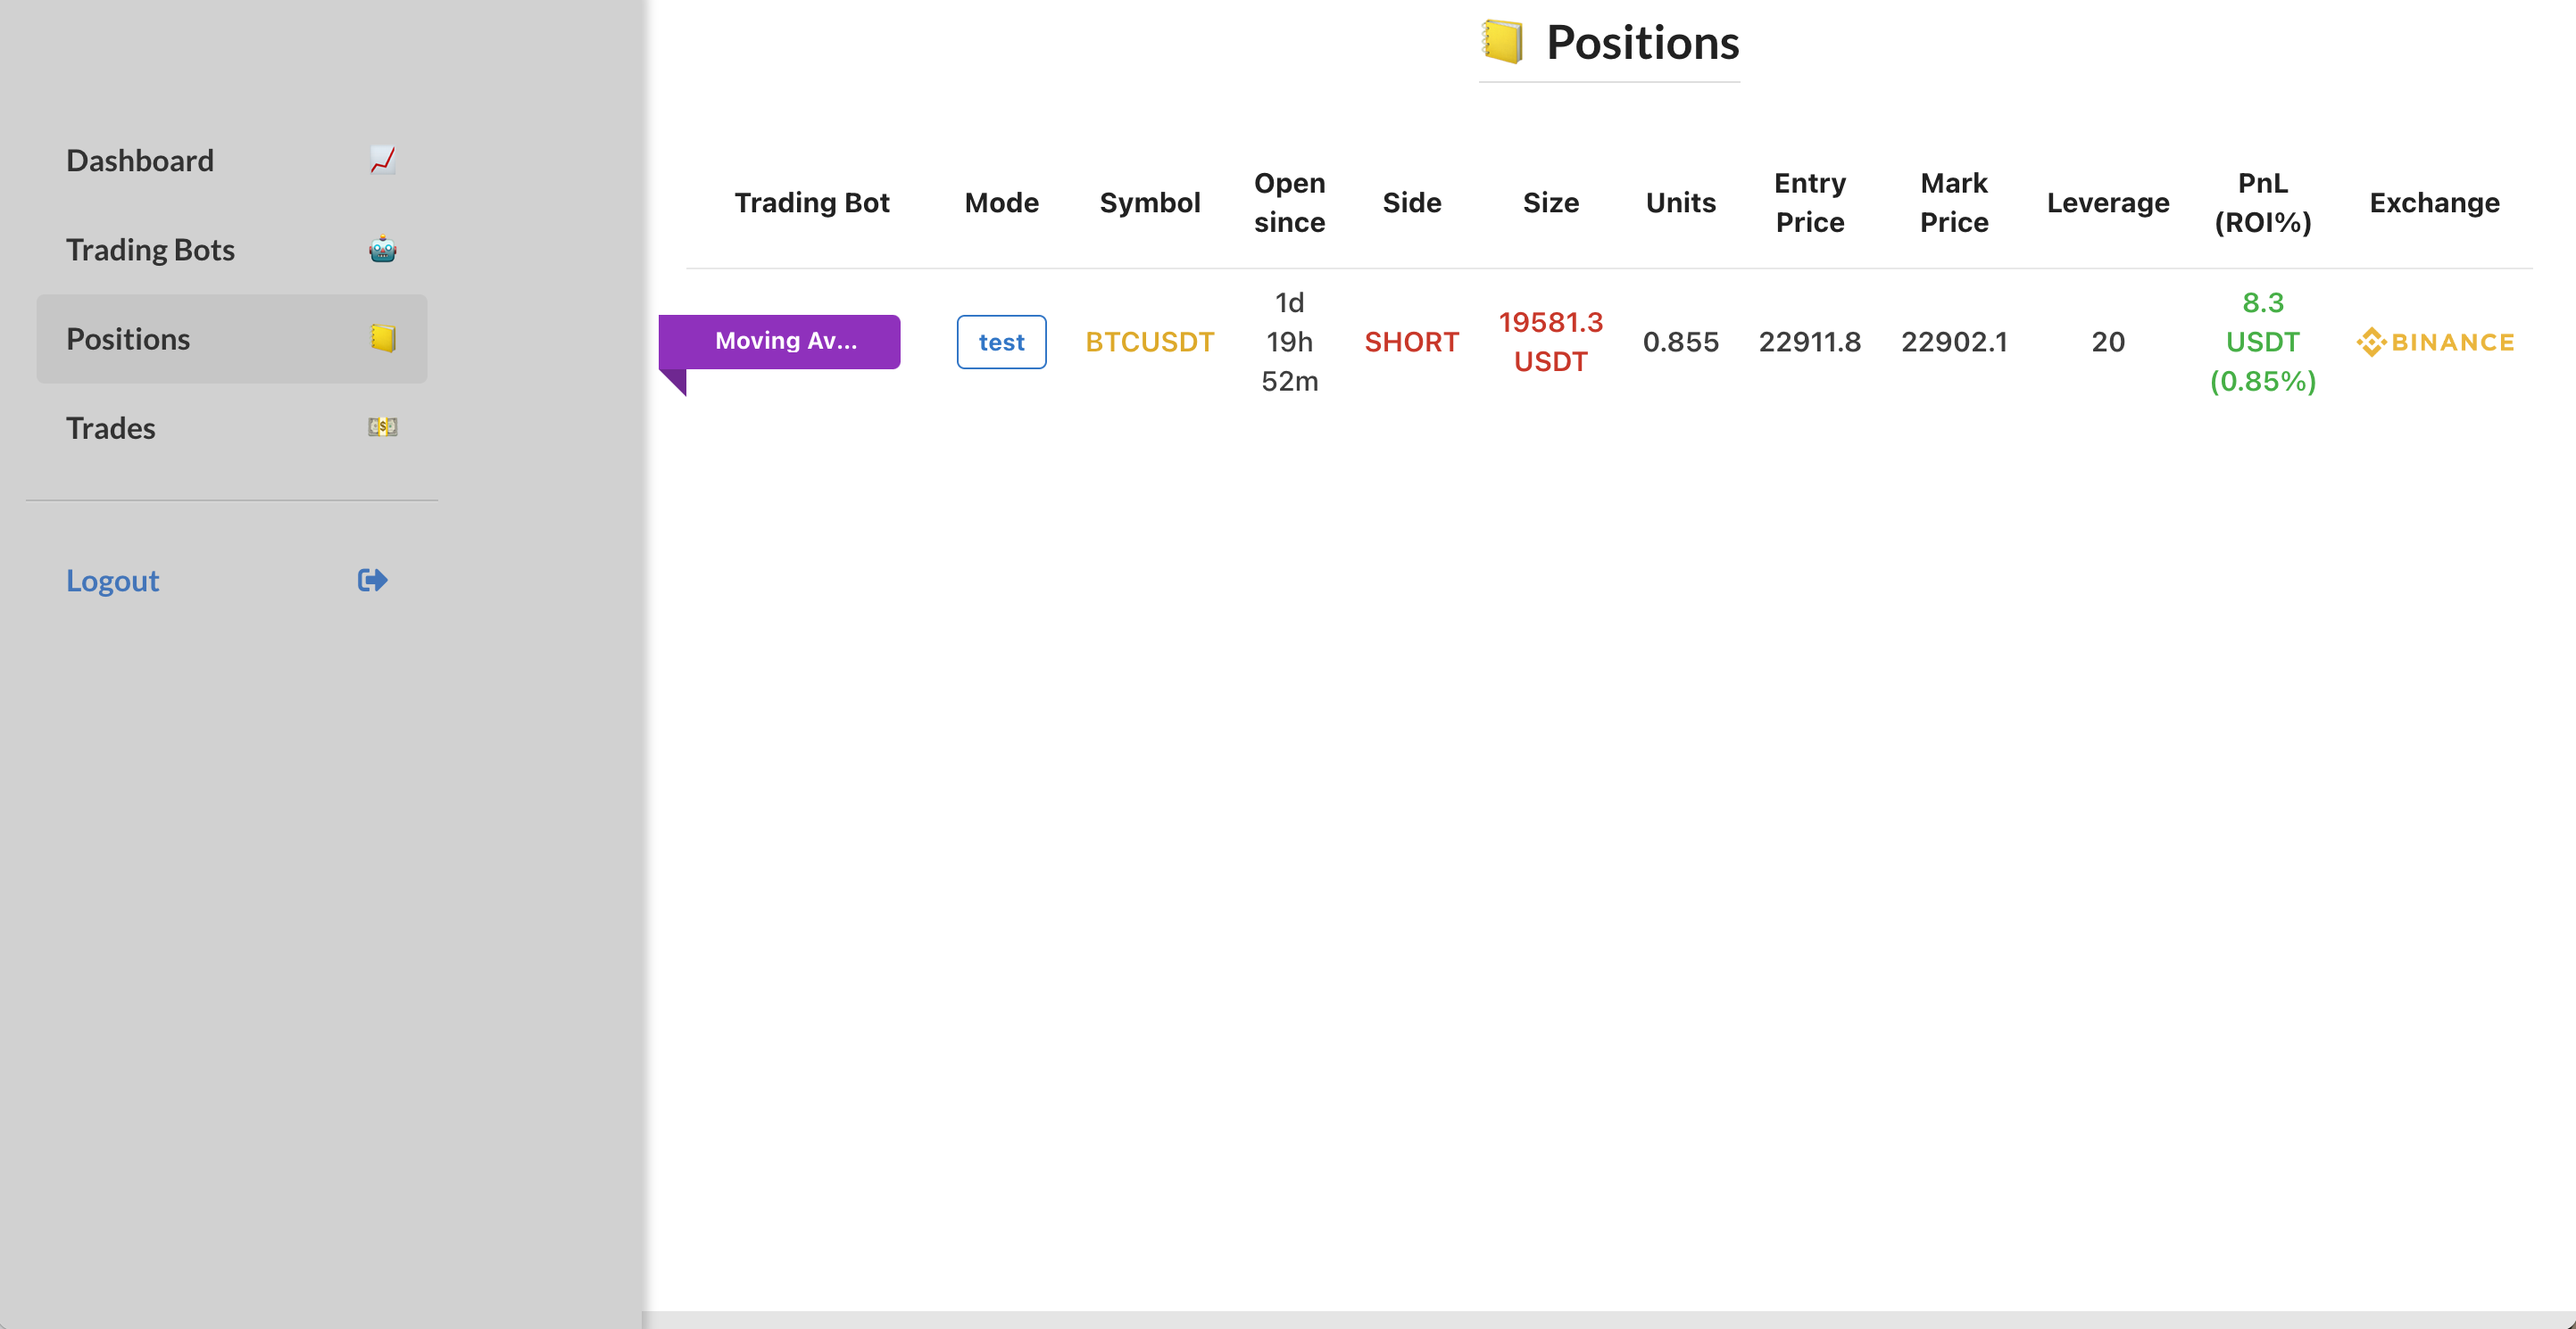
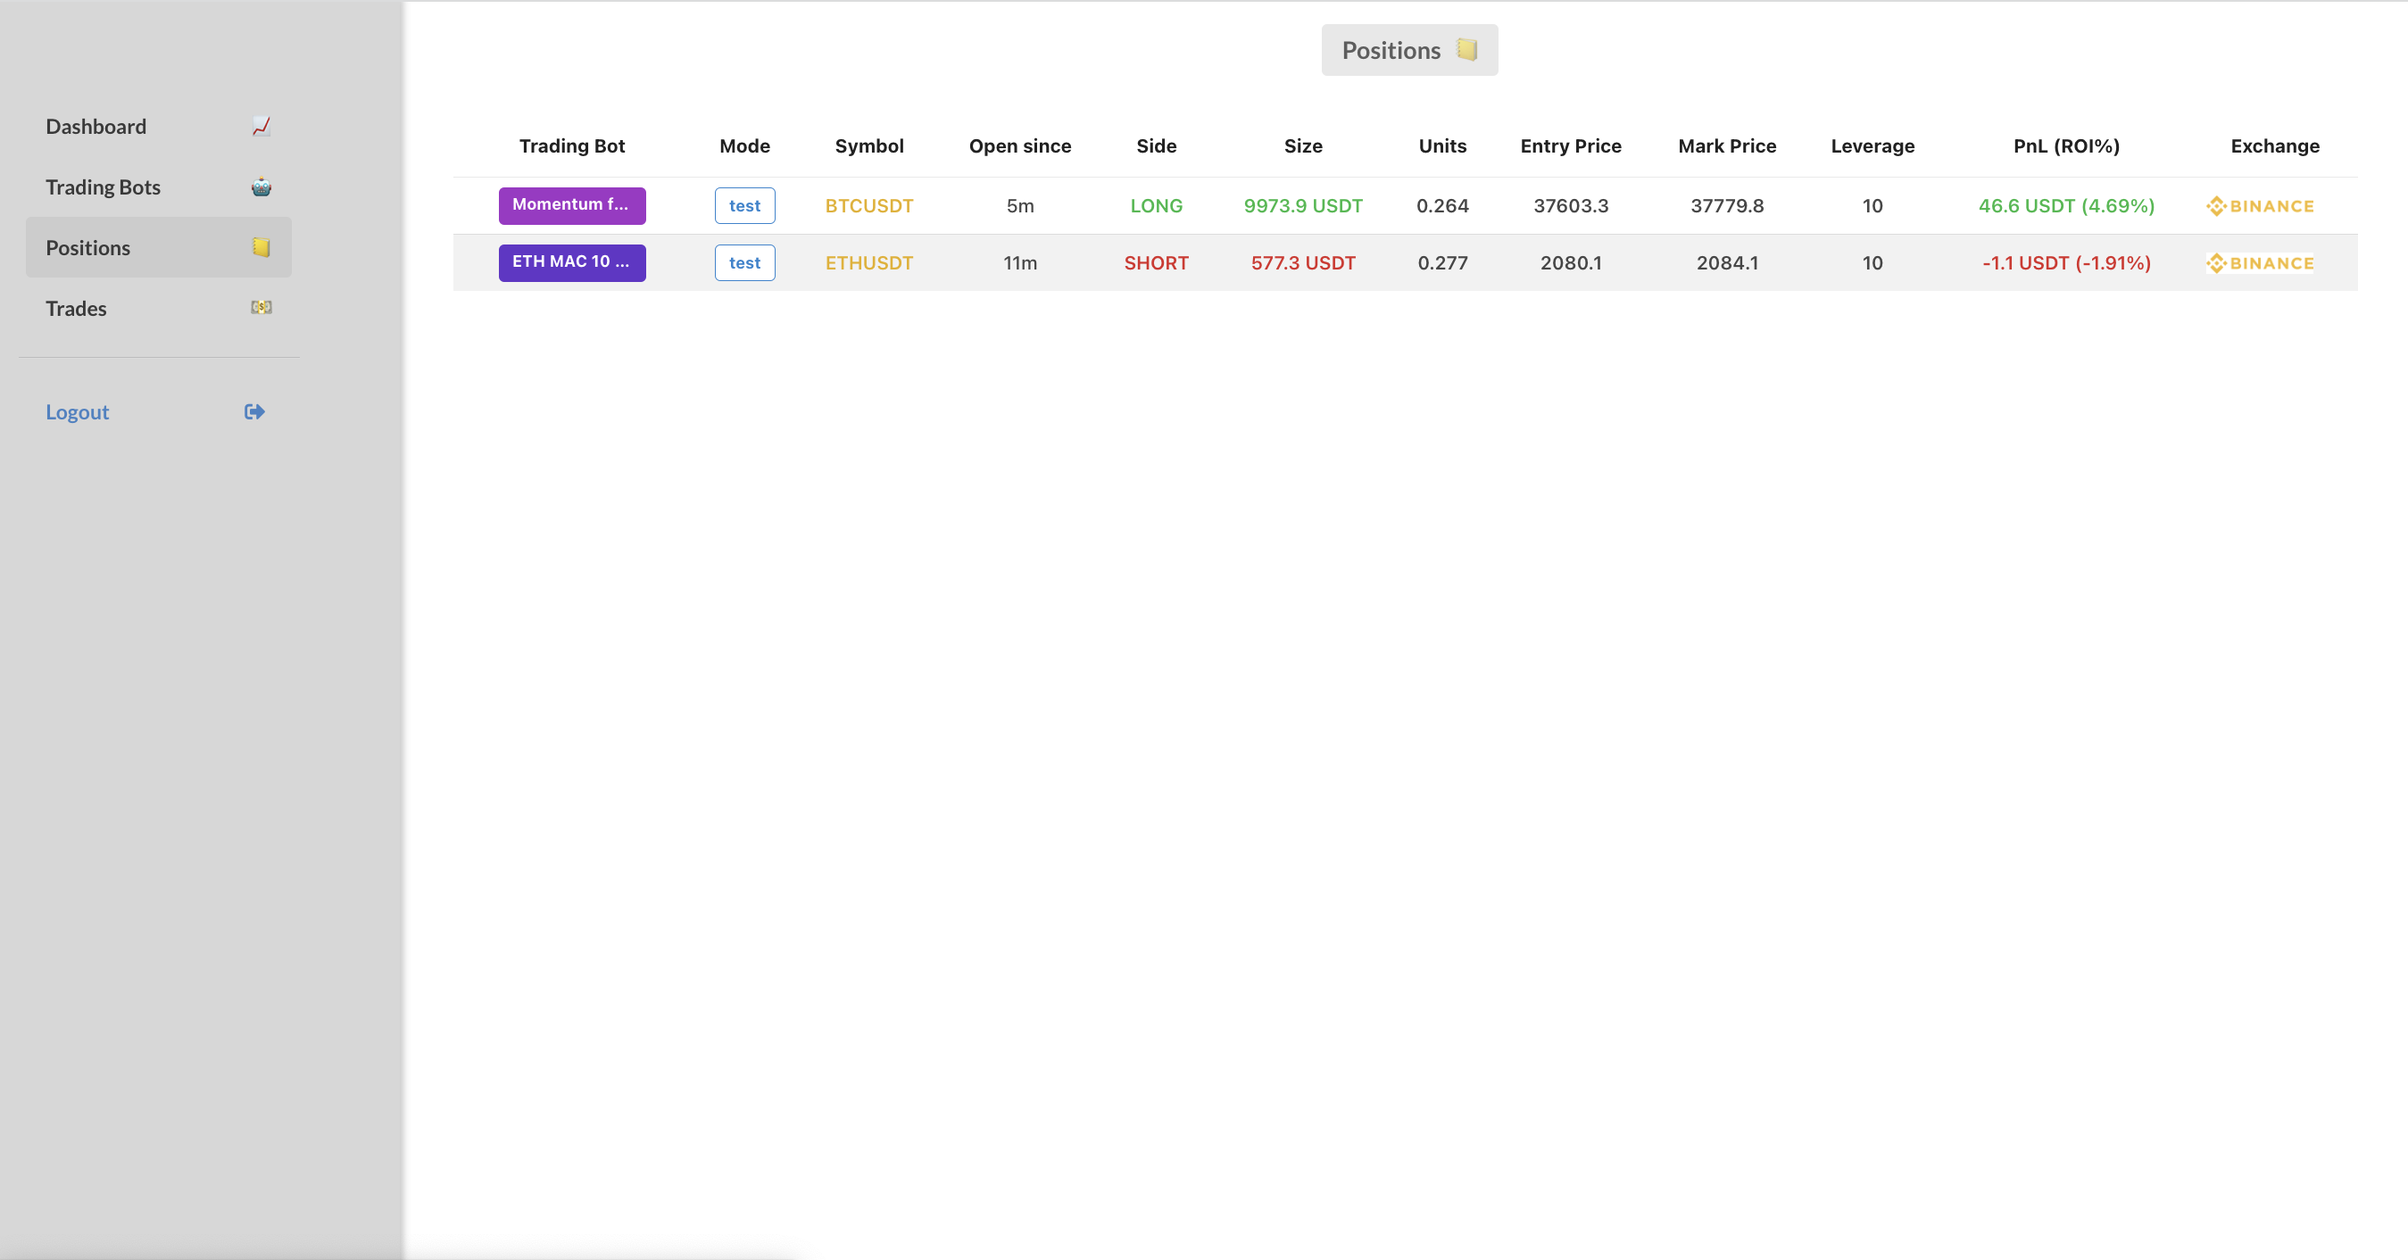
Add Frontend usage guide

diff --git a/README.md b/README.md
@@ -73,11 +73,52 @@ statistics, and more. The following are brief descriptions of the various views 
 
 #### Dashboard
 
+<p align="middle">
+  <img src="shared/utils/drawings/dashboard.png" style="width: 60%" />
+</p>
+
+This serves as the main view of the application, presenting a comprehensive overview of the equity evolution, 
+trading bot data, open positions, and associated trades over time. Summary statistics are displayed to provide 
+key insights. Users can easily navigate to different sections of the app by clicking on the corresponding section 
+or utilizing the left-hand side menu.
+
 #### Trading Bots
+
+<p align="middle">
+  <img src="shared/utils/drawings/trading-bots.png" style="width: 60%" />
+</p>
+
+This page provides an overview of all existing trading bots along with their current status. 
+Users have the ability to edit, start, and stop these bots directly from this view. 
+Clicking on a specific trading bot leads to a detailed page, showcasing the equity evolution, 
+statistics, and a comprehensive list of all trades associated with that bot.
+
+<p align="middle">
+  <img src="shared/utils/drawings/trading-bot-detail.png" style="width: 60%" />
+</p>
+
+Additionally, users can create a new trading bot by selecting the `New Trading Bot` button. 
+Simply fill in all the required details, and the new bot will be created and initiated automatically.
+
+<p align="middle">
+  <img src="shared/utils/drawings/create-new-bot.png" style="width: 60%" />
+</p>
 
 #### Positions
 
+<p align="middle">
+  <img src="shared/utils/drawings/positions.png" style="width: 60%" />
+</p>
+
+This page displays the currently open positions linked to the trading bots.
+
 #### Trades
+
+<p align="middle">
+  <img src="shared/utils/drawings/trades.png" style="width: 60%" />
+</p>
+
+This page shows all the trades executed by any of the trading bots. It is possible to filter by live or testnet trades.
 
 
 ## Software Requirements
